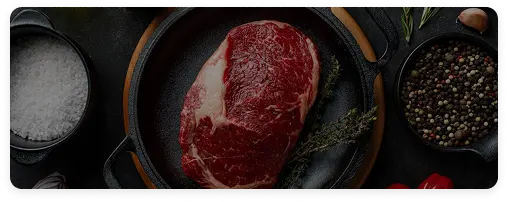
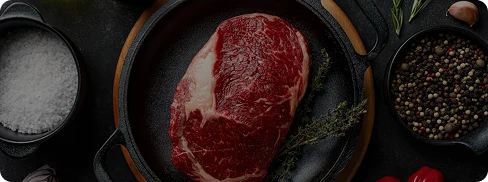
update cart state and logic to include cashback and remove unnecessary state management for cashback calculation

diff --git a/src/app/components/CartModal/CartModal.tsx b/src/app/components/CartModal/CartModal.tsx
@@ -19,8 +19,6 @@ import 'swiper/css';
 import 'swiper/css/navigation';
 import Button from "@/app/components/ui/Button/Button";
 import { useIsHydrated } from '@/hooks/useIsHydrated';
-import { getAccessToken } from '@/app/actions/authActions';
-import { getOrdersApi } from '@/lib/graphql/queries/orders';
 
 const getModifierIconUrl = (name?: string | null): string | null => {
     if (!name) return null;
@@ -48,12 +46,12 @@ export default function CartModal({ isOpen, onClose, isCheckoutMode = false }: C
     const lang = (params?.lang as string) || 'ua';
     const { disableScroll, enableScroll } = useScrollLock();
     const dispatch = useAppDispatch();
-    const { user, isGuest, isInitialized } = useAppSelector(state => state.auth);
+    const { isInitialized } = useAppSelector(state => state.auth);
+    const cashback = useAppSelector(state => state.cart.cashback);
     const hydrated = useIsHydrated();
 
     const [prevEl, setPrevEl] = useState<HTMLButtonElement | null>(null);
     const [nextEl, setNextEl] = useState<HTMLButtonElement | null>(null);
-    const [showCashback, setShowCashback] = useState(false);
     const [isMobile, setIsMobile] = useState(true);
 
     useEffect(() => {
@@ -66,47 +64,6 @@ export default function CartModal({ isOpen, onClose, isCheckoutMode = false }: C
     }, []);
 
     const { populatedItems, suggestedProducts, loading } = useCartProducts();
-
-    useEffect(() => {
-        if (!hydrated || !isInitialized || !user || isGuest) {
-            setShowCashback(false);
-            return;
-        }
-
-        const checkOrders = async () => {
-            try {
-                const token = await getAccessToken();
-                if (!token) return;
-                const ordersData = await getOrdersApi(token, { limit: 50 });
-                if (ordersData && ordersData.data) {
-                    const hasPaidAndCompleted = ordersData.data.some(order => {
-                        const currentStatusName = order.status?.name || '';
-                        const historyNames = (order.statusHistory || []).map(h => h?.name || '');
-                        const allStatusNames = [currentStatusName, ...historyNames].map(n => n.toLowerCase());
-
-                        const isCompleted = allStatusNames.some(n =>
-                            n.includes('завершено') || n.includes('виконано') || n.includes('completed') || n.includes('выполнено')
-                        );
-                        const isPaid = allStatusNames.some(n =>
-                            n.includes('оплачено') || n.includes('оплачен') || n.includes('paid')
-                        );
-
-                        return isCompleted && isPaid;
-                    });
-                    setShowCashback(hasPaidAndCompleted);
-                }
-            } catch (error) {
-                if (error instanceof Error && error.message === 'Unauthorized') {
-                    console.warn('Failed to fetch orders for cashback check: User is unauthorized (guest or session expired)');
-                } else {
-                    console.error('Failed to fetch orders for cashback check:', error);
-                }
-                setShowCashback(false);
-            }
-        };
-
-        void checkOrders();
-    }, [hydrated, isInitialized, user, isGuest]);
 
 
     // Calculate total
@@ -295,7 +252,7 @@ export default function CartModal({ isOpen, onClose, isCheckoutMode = false }: C
                     <div className={s.modalFooter}>
                         <div className={s.footerContent}>
                             <div className={s.summaryStats}>
-                                {showCashback && (
+                                {cashback > 0 && (
                                     <div className={s.statRow}>
                                         <div className={s.statLabel}>
                                             <svg xmlns="http://www.w3.org/2000/svg" width="11" height="11" viewBox="0 0 11 11" fill="none">
@@ -303,7 +260,7 @@ export default function CartModal({ isOpen, onClose, isCheckoutMode = false }: C
                                             </svg>
                                             <span>Кешбек балами:</span>
                                         </div>
-                                        <span className={s.statValBlack}>{Math.round(totalSum * 0.03)} Б</span>
+                                        <span className={s.statValBlack}>{cashback} Б</span>
                                     </div>
                                 )}
                                 <div className={s.statRow}>

diff --git a/src/app/pages/Checkout/components/CartSummary.tsx b/src/app/pages/Checkout/components/CartSummary.tsx
@@ -1,13 +1,11 @@
 'use client';
 
-import React, { useMemo, useState, useEffect } from 'react';
+import React, { useMemo, useEffect } from 'react';
 import Image from 'next/image';
 import { useCartProducts } from '@/hooks/useCartProducts';
 import s from './CheckoutShared.module.scss';
 import { useAppSelector } from '@/store/hooks';
 import { useIsHydrated } from '@/hooks/useIsHydrated';
-import { getAccessToken } from '@/app/actions/authActions';
-import { getOrdersApi } from '@/lib/graphql/queries/orders';
 
 const getModifierIconUrl = (name?: string | null): string | null => {
     if (!name) return null;
@@ -33,46 +31,8 @@ interface CartSummaryProps {
 export default function CartSummary({ onEditCart, discountPercent = 0, deliveryPrice }: CartSummaryProps) {
     const hydrated = useIsHydrated();
     const { populatedItems } = useCartProducts();
-    const { user, isGuest, isInitialized } = useAppSelector(state => state.auth);
     const promoCode = useAppSelector(state => state.cart.promoCode);
-    const [showCashback, setShowCashback] = useState(false);
-
-    useEffect(() => {
-        if (!hydrated || !isInitialized || !user || isGuest) {
-            setShowCashback(false);
-            return;
-        }
-
-        const checkOrders = async () => {
-            try {
-                const token = await getAccessToken();
-                if (!token) return;
-                const ordersData = await getOrdersApi(token, { limit: 50 });
-                if (ordersData && ordersData.data) {
-                    const hasPaidAndCompleted = ordersData.data.some(order => {
-                        const currentStatusName = order.status?.name || '';
-                        const historyNames = (order.statusHistory || []).map(h => h?.name || '');
-                        const allStatusNames = [currentStatusName, ...historyNames].map(n => n.toLowerCase());
-
-                        const isCompleted = allStatusNames.some(n =>
-                            n.includes('завершено') || n.includes('виконано') || n.includes('completed') || n.includes('выполнено')
-                        );
-                        const isPaid = allStatusNames.some(n =>
-                            n.includes('оплачено') || n.includes('оплачен') || n.includes('paid')
-                        );
-
-                        return isCompleted && isPaid;
-                    });
-                    setShowCashback(hasPaidAndCompleted);
-                }
-            } catch (error) {
-                console.error('Failed to fetch orders for cashback check', error);
-                setShowCashback(false);
-            }
-        };
-
-        void checkOrders();
-    }, [hydrated, isInitialized, user, isGuest]);
+    const cashback = useAppSelector(state => state.cart.cashback);
 
     const totalSum = useMemo(() => {
         return populatedItems.reduce((acc, item) => acc + item.product.price * item.quantity, 0);
@@ -100,7 +60,6 @@ export default function CartSummary({ onEditCart, discountPercent = 0, deliveryP
     if (!hydrated) return null;
 
     const delivery = deliveryPrice !== undefined ? deliveryPrice : 0;
-    const cashback = Math.round((totalSum - discountAmount) * 0.03);
 
     const hasAnyDiscount = (originalTotalSum > totalSum) || (discountAmount > 0);
     const finalPrice = totalSum + delivery - discountAmount;
@@ -199,7 +158,7 @@ export default function CartSummary({ onEditCart, discountPercent = 0, deliveryP
                     <div className={s.cartDivider} />
 
                     <div className={s.cartStats}>
-                        {showCashback && (
+                        {cashback > 0 && (
                             <div className={s.cartStat}>
                                 <span className={s.cartStatLabel}>
                                     <svg xmlns="http://www.w3.org/2000/svg" width="14" height="14" viewBox="0 0 14 14" fill="none">

diff --git a/src/store/slices/cartSlice.ts b/src/store/slices/cartSlice.ts
@@ -39,6 +39,7 @@ interface CartState {
     isInitialized: boolean;
     loading: boolean;
     promoCode: CartPromoCode | null;
+    cashback: number;
 }
 
 const initialState: CartState = {
@@ -47,6 +48,7 @@ const initialState: CartState = {
     isInitialized: false,
     loading: false,
     promoCode: null,
+    cashback: 0,
 };
 
 // Helper to map CartGql to local CartItem[]
@@ -90,6 +92,7 @@ export const fetchCartAsync = createAsyncThunk(
         try {
             const response = await getCartApi();
             dispatch(setPromoCode(response.promoCode || null));
+            dispatch(setCashback(response.cashback || 0));
             return mapCartItems(response);
         } catch (error: any) {
             console.error('[Cart] Failed to fetch cart from backend:', error);
@@ -135,6 +138,7 @@ export const addToCartAsync = createAsyncThunk(
                 });
             }
             dispatch(setPromoCode(response.promoCode || null));
+            dispatch(setCashback(response.cashback || 0));
             return mapCartItems(response);
         } catch (error: unknown) {
             console.error('[Cart] Failed to add or update product in backend cart:', error);
@@ -162,6 +166,7 @@ export const updateQuantityAsync = createAsyncThunk(
                     quantity: payload.quantity,
                 });
                 dispatch(setPromoCode(response.promoCode || null));
+                dispatch(setCashback(response.cashback || 0));
                 return mapCartItems(response);
             } else {
                 return rejectWithValue('No rowId found');
@@ -188,6 +193,7 @@ export const removeFromCartAsync = createAsyncThunk(
                     rowId,
                 });
                 dispatch(setPromoCode(response.promoCode || null));
+                dispatch(setCashback(response.cashback || 0));
                 return mapCartItems(response);
             } else {
                 return rejectWithValue('No rowId found');
@@ -287,6 +293,9 @@ const cartSlice = createSlice({
         },
         setPromoCode: (state, action: PayloadAction<CartPromoCode | null>) => {
             state.promoCode = action.payload;
+        },
+        setCashback: (state, action: PayloadAction<number>) => {
+            state.cashback = action.payload;
         }
     },
     extraReducers: (builder) => {
@@ -418,5 +427,5 @@ const cartSlice = createSlice({
     }
 });
 
-export const { addToCart, removeFromCart, updateQuantity, clearCart, setPromoCode } = cartSlice.actions;
+export const { addToCart, removeFromCart, updateQuantity, clearCart, setPromoCode, setCashback } = cartSlice.actions;
 export default cartSlice.reducer;